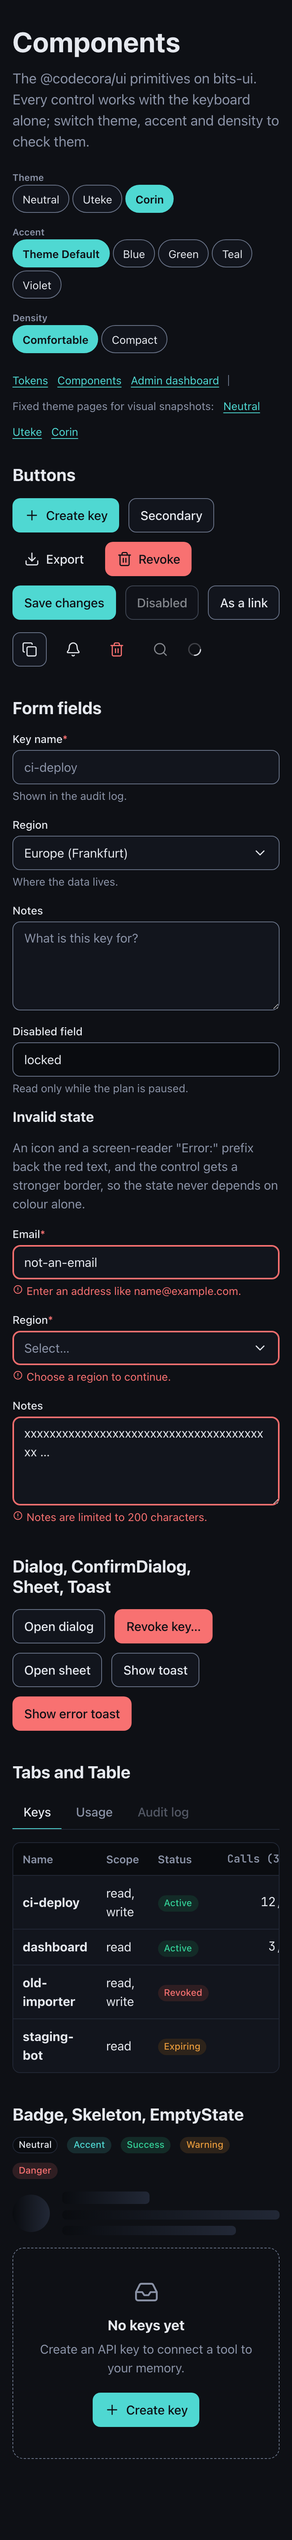
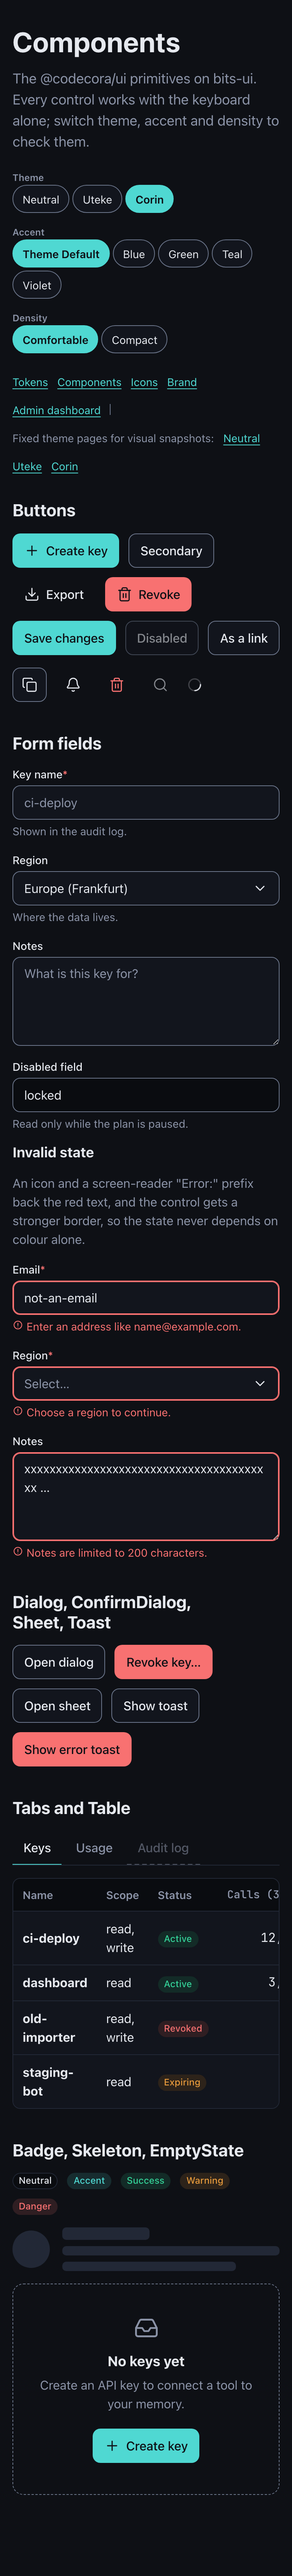
fix(ui): audit fixes for toasts, disabled tabs and skeletons (#38)
## What

The fixable items of the audit of the #6 primitives (issue #34):

- `Toaster`: a toast pauses while hovered or focused (WCAG 2.2.1) and resumes with at least 1.5 s left. Hover and focus hold it separately, so it restarts only when neither is left, and focus moving between controls inside the toast does not count as leaving. `toast.pause(id, reason)` and `toast.resume(id, reason)` are exported.
- `Tabs`: a disabled tab has a dashed underline, so it no longer reads like an unselected tab.
- `Skeleton`: pulses with opacity (compositor) instead of animating a gradient's `background-position` (repaint every frame).
- Playground: nav links are 24 px tall; the page header grid cannot widen.
- `packages/ui/README.md` documents that compact density targets are 32 px.
- Screenshots refreshed; a patch changeset.

Declined, with reasons:

- The Sidebar `width` transition stays: it is a single 0.2 s change the user triggers, already off under `prefers-reduced-motion`, and the alternative (a transform) cannot reflow the content next to it.
- A shared base for the focus and disabled CSS stays duplicated: each component's few lines are scoped, and sharing them needs a global stylesheet every consumer must load, which the library avoids.
- The 200%-text-at-375-px overflow in the issue was a harsher test than WCAG asks (1.4.10 reflow is 320 px at 100% text, 1.4.4 is 200% text on desktop); every page passes both.

## Why
[…]

diff --git a/packages/ui/src/lib/toast.svelte.ts b/packages/ui/src/lib/toast.svelte.ts
@@ -14,15 +14,57 @@ export interface ToastItem extends ToastOptions {
 }
 
 let next = 1;
-const timers: Record<number, ReturnType<typeof setTimeout>> = {};
+
+export type PauseReason = 'hover' | 'focus';
+
+interface Timer {
+  handle?: ReturnType<typeof setTimeout>;
+  remaining: number;
+  startedAt: number;
+  /** Why the countdown is stopped; it restarts only when none is left. */
+  holds: Set<PauseReason>;
+}
+const timers: Record<number, Timer> = {};
+
+/** A toast that was paused still stays up this long after the pointer or focus leaves. */
+const MIN_AFTER_RESUME = 1500;
 
 /** Queue shared by `toast.show` and `<Toaster />`. Client-side only: nothing is queued during SSR. */
 export const toasts = $state<{ items: ToastItem[] }>({ items: [] });
 
+function arm(id: number) {
+  const timer = timers[id];
+  if (!timer) return;
+  timer.startedAt = Date.now();
+  timer.handle = setTimeout(() => dismiss(id), timer.remaining);
+}
+
 function dismiss(id: number) {
-  clearTimeout(timers[id]);
+  clearTimeout(timers[id]?.handle);
   delete timers[id];
   toasts.items = toasts.items.filter((item) => item.id !== id);
+}
+
+/**
+ * Stop the countdown while a toast is hovered or focused, so it cannot vanish
+ * while being read. Hover and focus hold it separately: it resumes only when
+ * neither is left.
+ */
+function pause(id: number, reason: PauseReason = 'hover') {
+  const timer = timers[id];
+  if (!timer) return;
+  timer.holds.add(reason);
+  if (timer.handle === undefined) return;
+  clearTimeout(timer.handle);
+  timer.handle = undefined;
+  timer.remaining = Math.max(MIN_AFTER_RESUME, timer.remaining - (Date.now() - timer.startedAt));
+}
+
+function resume(id: number, reason: PauseReason = 'hover') {
+  const timer = timers[id];
+  if (!timer) return;
+  timer.holds.delete(reason);
+  if (timer.holds.size === 0 && timer.handle === undefined) arm(id);
 }
 
 function show(options: ToastOptions): number {
@@ -30,13 +72,18 @@ function show(options: ToastOptions): number {
   const tone = options.tone ?? 'neutral';
   toasts.items = [...toasts.items, { ...options, id, tone }];
   const duration = options.duration ?? (tone === 'danger' ? 0 : 5000);
-  if (duration > 0) timers[id] = setTimeout(() => dismiss(id), duration);
+  if (duration > 0) {
+    timers[id] = { remaining: duration, startedAt: 0, holds: new Set() };
+    arm(id);
+  }
   return id;
 }
 
 export const toast = {
   show,
   dismiss,
+  pause,
+  resume,
   success: (title: string, description?: string) => show({ title, description, tone: 'success' }),
   error: (title: string, description?: string) => show({ title, description, tone: 'danger' }),
 };

diff --git a/packages/ui/src/lib/overlays.test.ts b/packages/ui/src/lib/overlays.test.ts
@@ -158,6 +158,49 @@ describe('Toaster', () => {
     expect(toasts.items).toHaveLength(0);
   });
 
+  it('pauses while hovered or focused and resumes with at least a moment left', () => {
+    vi.useFakeTimers();
+    const id = toast.show({ title: 'Reading', duration: 1000 });
+    vi.advanceTimersByTime(900);
+    toast.pause(id);
+    vi.advanceTimersByTime(60_000);
+    expect(toasts.items).toHaveLength(1);
+    toast.resume(id);
+    vi.advanceTimersByTime(1400);
+    expect(toasts.items).toHaveLength(1);
+    vi.advanceTimersByTime(200);
+    expect(toasts.items).toHaveLength(0);
+    vi.useRealTimers();
+  });
+
+  it('pointer enter and leave on a toast pause and resume it', async () => {
+    vi.useFakeTimers();
+    render(Toaster);
+    toast.show({ title: 'Hover me', duration: 1000 });
+    const el = await screen.findByRole('status');
+    await fireEvent.mouseEnter(el);
+    vi.advanceTimersByTime(10_000);
+    expect(toasts.items).toHaveLength(1);
+    await fireEvent.mouseLeave(el);
+    vi.advanceTimersByTime(2000);
+    expect(toasts.items).toHaveLength(0);
+    vi.useRealTimers();
+  });
+
+  it('hover and focus hold the toast separately', () => {
+    vi.useFakeTimers();
+    const id = toast.show({ title: 'Both', duration: 1000 });
+    toast.pause(id, 'hover');
+    toast.pause(id, 'focus');
+    toast.resume(id, 'hover');
+    vi.advanceTimersByTime(60_000);
+    expect(toasts.items).toHaveLength(1);
+    toast.resume(id, 'focus');
+    vi.advanceTimersByTime(1600);
+    expect(toasts.items).toHaveLength(0);
+    vi.useRealTimers();
+  });
+
   it('dismisses itself after its duration', async () => {
     vi.useFakeTimers();
     toast.show({ title: 'Brief', duration: 1000 });

diff --git a/packages/ui/src/lib/Toaster.svelte b/packages/ui/src/lib/Toaster.svelte
@@ -10,7 +10,20 @@
 
 <section class="cc-toaster" aria-label="Notifications">
   {#each toasts.items as item (item.id)}
-    <div class="cc-toast cc-toast-{item.tone}" role={item.tone === 'danger' ? 'alert' : 'status'}>
+    <!-- Hover or focus pauses the countdown (WCAG 2.2.1): the element is not interactive itself. -->
+    <div
+      class="cc-toast cc-toast-{item.tone}"
+      role={item.tone === 'danger' ? 'alert' : 'status'}
+      onmouseenter={() => toast.pause(item.id, 'hover')}
+      onmouseleave={() => toast.resume(item.id, 'hover')}
+      onfocusin={() => toast.pause(item.id, 'focus')}
+      onfocusout={(event) => {
+        // Focus moving between controls inside the toast is not leaving it.
+        if (!event.currentTarget.contains(event.relatedTarget as Node | null)) {
+          toast.resume(item.id, 'focus');
+        }
+      }}
+    >
       <span class="dot" aria-hidden="true"></span>
       <div class="text">
         <strong>{item.title}</strong>

diff --git a/packages/ui/src/lib/Skeleton.svelte b/packages/ui/src/lib/Skeleton.svelte
@@ -16,21 +16,16 @@
   .cc-skeleton {
     display: block;
     border-radius: var(--cc-radius-sm);
-    background: linear-gradient(
-      90deg,
-      var(--cc-surface-sunken),
-      var(--cc-surface-hover),
-      var(--cc-surface-sunken)
-    );
-    background-size: 200% 100%;
-    animation: cc-shimmer 1.4s ease-in-out infinite;
+    background: var(--cc-surface-hover);
+    /* Opacity runs on the compositor; the old background-position shimmer repainted every frame. */
+    animation: cc-pulse 1.4s ease-in-out infinite;
   }
   .circle {
     border-radius: var(--cc-radius-pill);
   }
-  @keyframes cc-shimmer {
-    to {
-      background-position: -200% 0;
+  @keyframes cc-pulse {
+    50% {
+      opacity: 0.45;
     }
   }
   @media (prefers-reduced-motion: reduce) {

diff --git a/apps/playground/src/lib/Stage.svelte b/apps/playground/src/lib/Stage.svelte
@@ -72,6 +72,7 @@
   }
   header {
     display: grid;
+    grid-template-columns: minmax(0, 1fr);
     gap: var(--cc-space-6);
     padding-bottom: var(--cc-space-8);
   }
@@ -93,6 +94,11 @@
     gap: var(--cc-space-3);
     font-size: var(--cc-font-size-sm);
     color: var(--cc-text-muted);
+  }
+  nav a {
+    display: inline-flex;
+    align-items: center;
+    min-height: 1.5rem;
   }
   .sep {
     width: 1px;

diff --git a/packages/ui/src/lib/Tabs.svelte b/packages/ui/src/lib/Tabs.svelte
@@ -67,6 +67,9 @@
   :global(.cc-tab[data-disabled]) {
     opacity: 0.55;
     cursor: not-allowed;
+    /* A dashed underline tells "unavailable" apart from an unselected tab (none) and the selected one (solid). */
+    border-bottom-style: dashed;
+    border-bottom-color: currentColor;
   }
   :global(.cc-tab:focus-visible) {
     outline: 2px solid var(--cc-focus);

diff --git a/apps/playground/src/lib/Switchers.svelte b/apps/playground/src/lib/Switchers.svelte
@@ -87,6 +87,7 @@
   }
   span {
     display: inline-flex;
+    max-width: 100%;
     align-items: center;
     min-height: 2.25rem;
     padding-inline: var(--cc-space-3);

diff --git a/CHANGELOG.md b/CHANGELOG.md
@@ -29,6 +29,7 @@ changesets once packages exist.
 
 - `Table`: the visually hidden caption and header labels no longer widen the page on narrow screens.
 - `Field` errors no longer rely on colour alone (icon and "Error:" prefix), `required` reaches the control, and invalid controls have a stronger border; `ConfirmDialog` forwards `theme`, focuses Cancel first for danger, emphasises the irreversible sentence and can require a typed name; `Button` accepts a `loadingLabel`.
+- `Toaster`: a toast pauses while it is hovered or focused (WCAG 2.2.1) and resumes with at least a moment left; `Tabs`: a disabled tab has a dashed underline so it no longer reads like an unselected one; `Skeleton` pulses with opacity instead of repainting a gradient every frame; the playground nav links are 24 px tall.
 
 ### Security
 

diff --git a/packages/ui/README.md b/packages/ui/README.md
@@ -22,3 +22,7 @@ and styled with plain CSS on semantic `--cc-*` tokens. See the
 Components read `--cc-*` tokens, so load `@codecora/tokens/tokens.css` and set
 `data-theme` on an ancestor. Icons are props; this package has no icon
 dependency. Every control works with the keyboard alone and at 375 px.
+
+Touch targets are 44 px tall in the comfortable density and 32 px in the compact
+density (above the WCAG 2.2 minimum of 24 px, below the 44 px recommendation), so
+use comfortable on touch-first screens.

diff --git a/.changeset/ui-audit-fixes.md b/.changeset/ui-audit-fixes.md
@@ -1,0 +1,5 @@
+---
+'@codecora/ui': patch
+---
+
+Audit fixes: toasts pause while hovered or focused, a disabled tab is visibly different from an unselected one, and `Skeleton` pulses with opacity instead of animating a background position.
